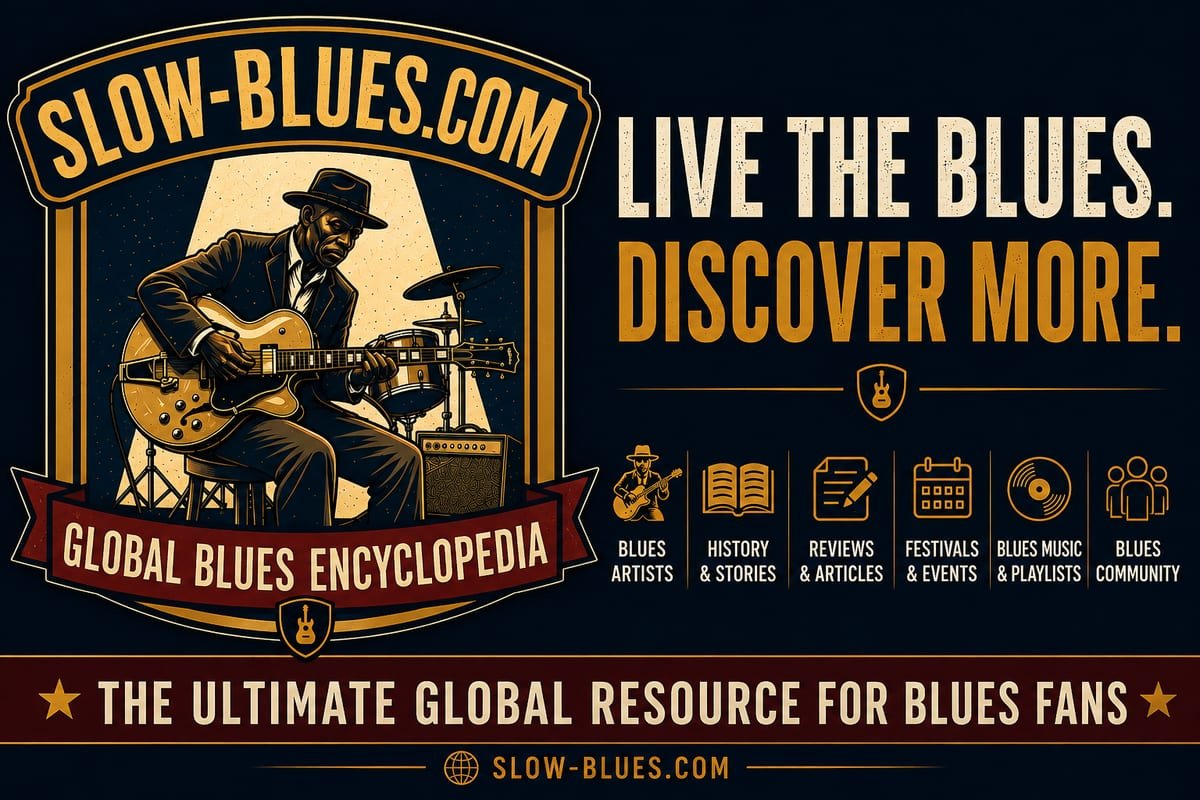
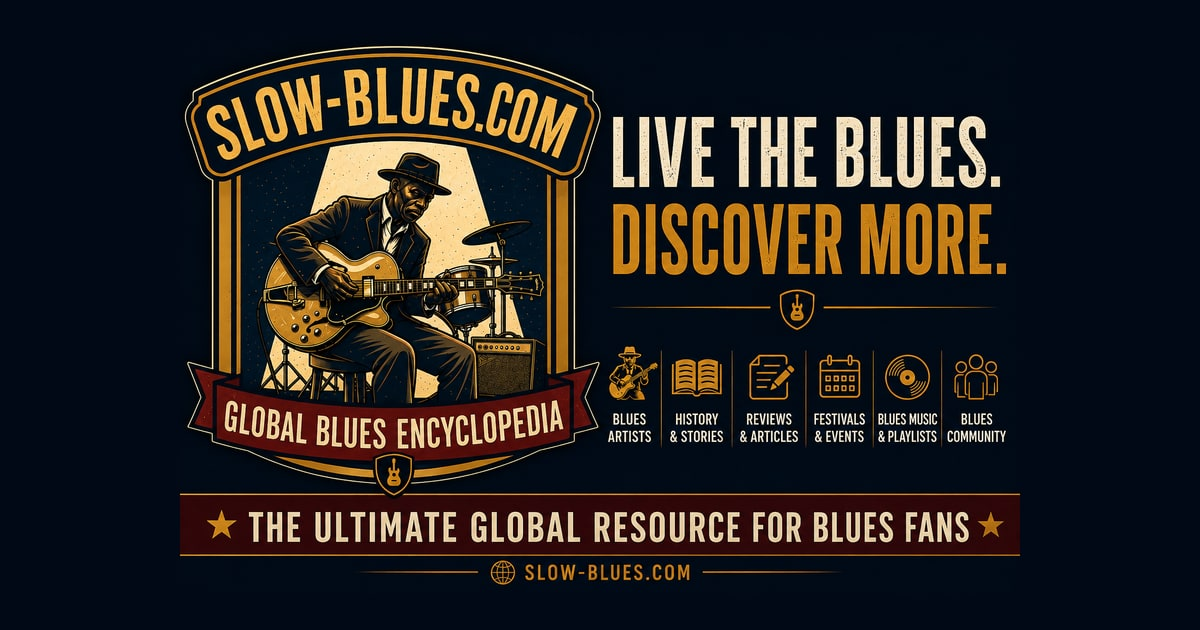
Re-compose OG image at standard 1200x630 with safe-area margin
Reverts the previous 1200x800 crop-fit approach: the source artwork
(1536x1024, 1.5:1) is now scaled down to fit fully inside a 1200x630
frame with no cropping (fit-by-height, ~35px top/bottom, ~180px
left/right), then centered on a canvas filled with the artwork's own
sampled background color (rgb(0,9,21)) so the added margin blends in
seamlessly rather than showing as visible letterbox bars. All text
("SLOW-BLUES.COM", "LIVE THE BLUES. DISCOVER MORE.",
"GLOBAL BLUES ENCYCLOPEDIA") stays fully legible and within Facebook/
Messenger's safe preview area -- nothing stretched, distorted, or
cropped.

- JPEG (mozjpeg q88, 127KB) is the actual og:image/twitter:image --
  kept as the compatible format for Facebook/Messenger/Twitter
  crawlers. Added og:image:type for clarity.
- Added a WebP sibling (91KB) as the optimized variant, per request,
  without swapping the meta tags to it (WebP og:image support is
  still inconsistent across platforms).
- og:image:width/height and the rss.xml image dimensions reverted to
  1200x630 to match.

No artist images or other functionality touched. Verified live: both
files reachable (200), and the rendered og:image/twitter:image meta
on the homepage reflects the new dimensions.

diff --git a/src/routes/__root.tsx b/src/routes/__root.tsx
@@ -79,7 +79,8 @@ export const Route = createRootRouteWithContext<{ queryClient: QueryClient }>()(
       { name: "twitter:site", content: "@slowblues" },
       { property: "og:image", content: "https://www.slow-blues.com/images/slow-blues-global-blues-encyclopedia-og.jpg" },
       { property: "og:image:width", content: "1200" },
-      { property: "og:image:height", content: "800" },
+      { property: "og:image:height", content: "630" },
+      { property: "og:image:type", content: "image/jpeg" },
       { property: "og:image:alt", content: "SlowBlues.com — Global Blues Encyclopedia. Live the blues. Discover more." },
       { name: "twitter:image", content: "https://www.slow-blues.com/images/slow-blues-global-blues-encyclopedia-og.jpg" },
       { name: "twitter:image:alt", content: "SlowBlues.com — Global Blues Encyclopedia. Live the blues. Discover more." },
